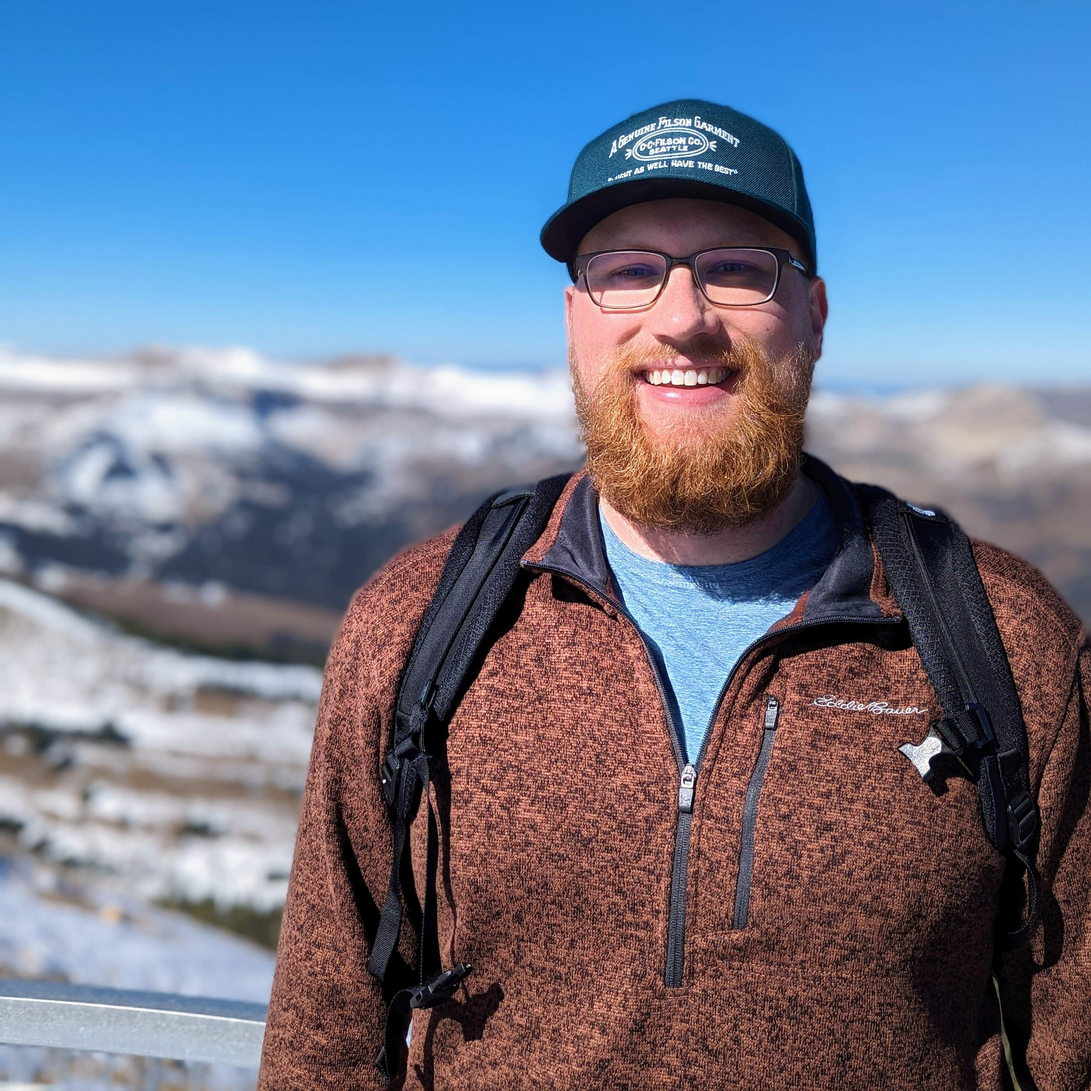
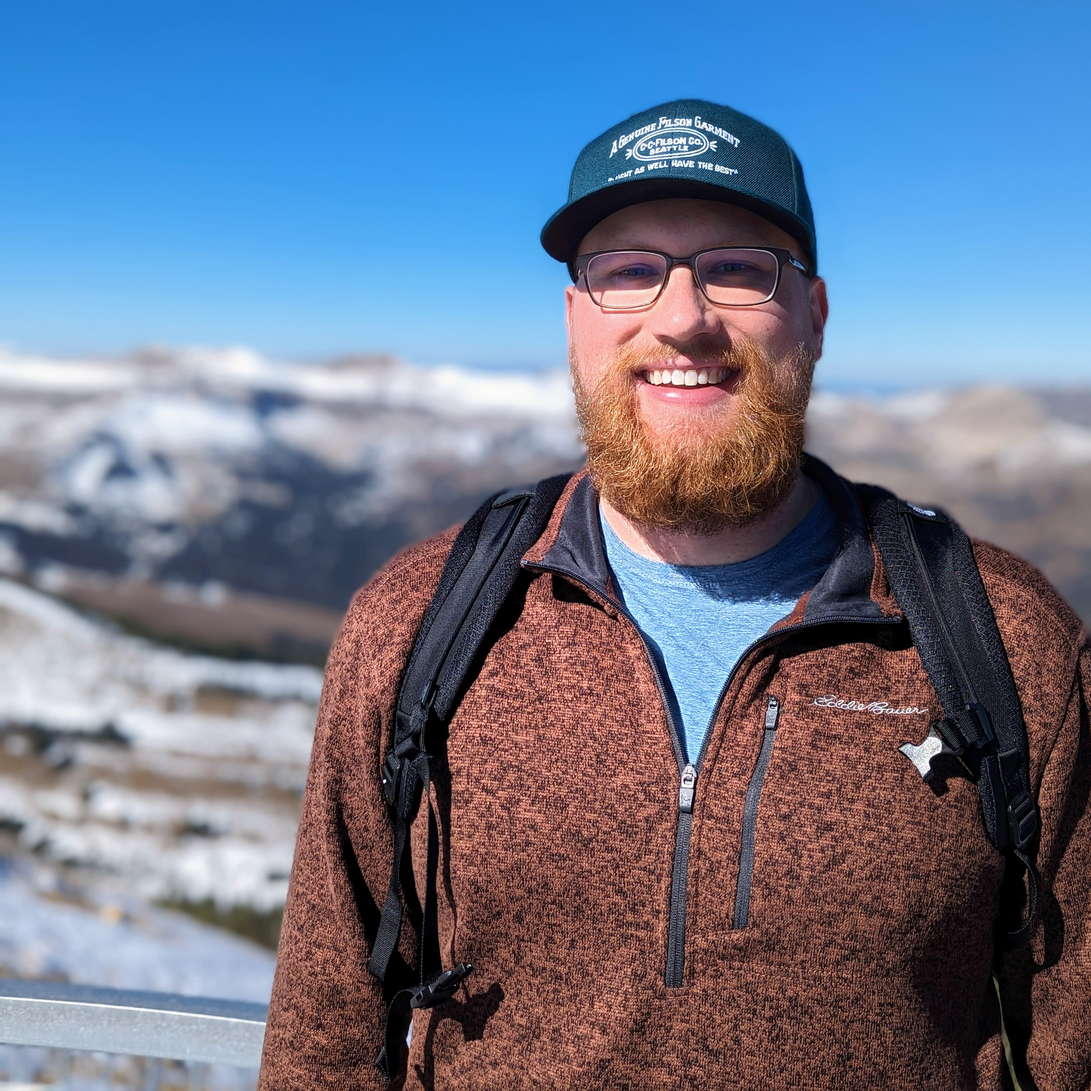
rewrites about copy and description, adds unlisted media kit, shares hero and footer partials, swaps in cleaned profile photo (#13)

diff --git a/layouts/media-kit.html b/layouts/media-kit.html
@@ -1,0 +1,105 @@
+{{ define "main" }}
+{{ $crops := slice
+  (dict "label" "4:1" "file" "4x1" "crop" (dict "ratio" 4 "left" 0.1182 "top" 0.025 "width" 0.7637) "sizes" (slice (dict "name" "Medium" "width" 1584)))
+  (dict "label" "3:1" "file" "3x1" "crop" (dict "ratio" 3 "left" 0.1182 "top" 0.017 "width" 0.7637) "sizes" (slice (dict "name" "Medium" "width" 1500)))
+  (dict "label" "Original" "file" "original") }}
+{{ $cards := slice }}
+{{ range $style := slice (dict "title" "Blurred Background" "suffix" "blur" "blurred" true) (dict "title" "Sharp Background" "suffix" "sharp" "blurred" false) }}
+  {{ $heroArgs := dict "Blurred" .blurred "Format" "png" }}
+  {{ $downloads := slice }}
+  {{ range $crops }}
+    {{ $args := $heroArgs }}
+    {{ with .crop }}{{ $args = merge $args (dict "Crop" .) }}{{ end }}
+    {{ $downloads = $downloads | append (partial "download-sizes.html" (dict
+      "Resource" (partialCached "hero.html" $args (jsonify $args))
+      "Prefix" .label
+      "Path" (printf "media-kit/background-%s-%s" .file $style.suffix)
+      "Sizes" .sizes)) }}
+  {{ end }}
+  {{ $cards = $cards | append (dict
+    "title" .title
+    "preview" (partialCached "hero.html" $heroArgs (jsonify $heroArgs) | resources.Copy (printf "media-kit/preview-%s.png" .suffix))
+    "width" 640
+    "class" "w-full rounded-xs"
+    "downloads" $downloads) }}
+{{ end }}
+{{ $me := resources.Get "images/me.jpg" }}
+{{ $cards = $cards | append (dict
+  "title" "Profile Photo"
+  "preview" ($me | resources.Copy "media-kit/preview-profile.jpg")
+  "width" 384
+  "class" "rounded-xs"
+  "downloads" (partial "download-sizes.html" (dict
+    "Resource" $me
+    "Path" "media-kit/profile"
+    "SkipFull" true
+    "Sizes" (slice (dict "name" "Small" "width" 400) (dict "name" "Medium" "width" 1024))))) }}
+{{ $headline := printf "%s | %s" site.Params.tagline (strings.TrimSuffix "." site.Params.description) }}
+{{ $rich := partial "rich-text.html" site.Home.Content }}
+{{ $plain := partial "plain-text.html" $rich }}
+{{ $formats := slice
+  (dict "name" "Plain text" "body" $plain "class" "font-sans")
+  (dict "name" "Markdown" "body" (partial "markdown.html" site.Home))
+  (dict "name" "Rich text" "body" $rich "html" true) }}
+<main class="mx-auto flex max-w-prose flex-col gap-12 px-5 py-14">
+  <h1 class="border-b-4 border-mist-700 pb-2 text-3xl font-bold tracking-wide text-mist-50 uppercase">{{ .Title }}</h1>
+
+  <section class="flex flex-col gap-4" aria-labelledby="headline">
+    <div class="flex flex-wrap items-baseline gap-x-3">
+      <h2 id="headline" class="text-xl font-semibold text-mist-50">Headline</h2>
+      <span class="text-sm text-mist-400">{{ lang.FormatNumber 0 (strings.RuneCount $headline) }} characters</span>
+    </div>
+    <p class="rounded-xs bg-mist-900 p-4 leading-7 select-all">{{ $headline }}</p>
+  </section>
+
+  <section class="flex flex-col gap-4" aria-labelledby="about-me">
+    <div class="flex flex-wrap items-baseline gap-x-3">
+      <h2 id="about-me" class="text-xl font-semibold text-mist-50">About Me</h2>
+      <span class="text-sm text-mist-400">{{ lang.FormatNumber 0 (strings.RuneCount $plain) }} characters</span>
+    </div>
+    <ul role="list" class="divide-y divide-mist-700 rounded-xs border border-mist-700">
+      {{ range $formats }}
+      <li>
+        <details class="group">
+          <summary class="flex cursor-pointer items-center justify-between gap-4 py-3 pr-5 pl-4 text-sm/6 select-none marker:hidden">
+            <span class="font-medium text-mist-50">{{ .name }}</span>
+            {{ partial "icon.html" (dict "name" "chevron-down" "class" "size-4 shrink-0 text-mist-400 transition-transform group-open:rotate-180") }}
+          </summary>
+          <div class="px-4 pb-4">
+            {{ if .html }}
+            <div class="prose rounded-xs bg-white p-4 select-all">{{ .body }}</div>
+            {{ else }}
+            <pre class="rounded-xs bg-mist-900 p-4 leading-7 whitespace-pre-wrap select-all{{ with .class }} {{ . }}{{ end }}">{{ .body }}</pre>
+            {{ end }}
+          </div>
+        </details>
+      </li>
+      {{ end }}
+    </ul>
+  </section>
+
+  {{ range $i, $card := $cards }}
+  <section class="flex flex-col gap-4" aria-labelledby="{{ urlize $card.title }}">
+    <h2 id="{{ urlize $card.title }}" class="text-xl font-semibold text-mist-50">{{ $card.title }}</h2>
+    {{ partial "img.html" (dict
+      "Resource" $card.preview
+      "Alt" $card.title
+      "Width" $card.width
+      "Eager" (eq $i 0)
+      "Class" $card.class) }}
+    <ul role="list" class="divide-y divide-mist-700 rounded-xs border border-mist-700">
+      {{ range $card.downloads }}
+      <li class="flex items-center justify-between gap-4 py-3 pr-5 pl-4 text-sm/6">
+        <div class="flex min-w-0 flex-1 flex-wrap gap-x-2">
+          <span class="font-medium text-mist-50">{{ .label }}</span>
+          <span class="text-mist-400">{{ .image.Width }}×{{ .image.Height }} · {{ upper .image.MediaType.SubType }} · {{ partial "file-size.html" (len .image.Content) }}</span>
+        </div>
+        <a href="{{ .image.RelPermalink }}" download class="link shrink-0">Download<span class="sr-only">, {{ $card.title }}, {{ .label }}</span></a>
+      </li>
+      {{ end }}
+    </ul>
+  </section>
+  {{ end }}
+</main>
+{{ partial "footer.html" . }}
+{{ end }}

diff --git a/layouts/_partials/hero.html b/layouts/_partials/hero.html
@@ -1,0 +1,20 @@
+{{ $src := resources.Get "images/header.jpg" }}
+{{ $hero := dict "width" 2560 "height" 1206 "blur" 5 }}
+{{ $blur := $hero.blur }}
+{{ $filters := slice }}
+{{ with .Crop }}
+  {{ $h := int (div (math.Round (mul $src.Width .width)) .ratio) }}
+  {{ $w := int (mul $h .ratio) }}
+  {{ $x := int (math.Round (mul $src.Width .left)) }}
+  {{ $y := int (math.Round (mul $src.Height .top)) }}
+  {{ $filters = $filters | append
+    (images.Process (printf "crop %dx%d TopLeft" (add $x $w) (add $y $h)))
+    (images.Process (printf "crop %dx%d BottomRight" $w $h)) }}
+  {{ $blur = div $blur (math.Max (div (float $hero.width) $src.Width) (div (float $hero.height) $src.Height)) }}
+{{ else }}
+  {{ $filters = $filters | append (images.Process (printf "fill %dx%d center" $hero.width $hero.height)) }}
+{{ end }}
+{{ if .Blurred }}{{ $filters = $filters | append (images.GaussianBlur $blur) }}{{ end }}
+{{ $filters = $filters | append (images.Gamma 0.72) (images.Saturation 5) (images.ColorBalance 0 0 -20) }}
+{{ with .Format }}{{ $filters = $filters | append (images.Process .) }}{{ end }}
+{{ return ($src | images.Filter $filters) }}

diff --git a/layouts/_partials/download-sizes.html b/layouts/_partials/download-sizes.html
@@ -1,0 +1,22 @@
+{{ $out := slice }}
+{{ $prefix := .Prefix | default "" }}
+{{ range .Sizes }}
+  {{ if lt .width $.Resource.Width }}
+    {{ $out = $out | append (dict
+      "label" (strings.TrimSpace (printf "%s %s" $prefix .name))
+      "image" ($.Resource.Process (printf "resize %dx jpg" .width) | resources.Copy (printf "%s-%d.jpg" $.Path .width))) }}
+  {{ end }}
+{{ end }}
+{{ range $cap := slice (dict "name" "Under 500 KB" "file" "500kb" "max" 500000) (dict "name" "Under 1 MB" "file" "1mb" "max" 1000000) }}
+  {{ with partial "under-bytes.html" (dict "Resource" $.Resource "Max" $cap.max) }}
+    {{ $out = $out | append (dict
+      "label" (strings.TrimSpace (printf "%s %s" $prefix $cap.name))
+      "image" (. | resources.Copy (printf "%s-%s.jpg" $.Path $cap.file))) }}
+  {{ end }}
+{{ end }}
+{{ if not .SkipFull }}
+  {{ $out = $out | append (dict
+    "label" (strings.TrimSpace (printf "%s Full" $prefix))
+    "image" ($.Resource.Process "jpg" | resources.Copy (printf "%s-full.jpg" $.Path))) }}
+{{ end }}
+{{ return $out }}

diff --git a/layouts/home.html b/layouts/home.html
@@ -1,10 +1,6 @@
 {{ define "main" }}
-{{ $hero := resources.Get "images/header.jpg" | images.Filter
-  (images.Process "fill 2560x1206 center")
-  (images.GaussianBlur 5)
-  (images.Gamma 0.72)
-  (images.Saturation 5)
-  (images.ColorBalance 0 0 -20) }}
+{{ $heroArgs := dict "Blurred" true }}
+{{ $hero := partialCached "hero.html" $heroArgs (jsonify $heroArgs) }}
 {{ $lqip := $hero.Resize "32x avif" }}
 <header
   class="relative isolate flex min-h-svh flex-col"
@@ -72,8 +68,6 @@
     </section>
   </main>
 
-  <footer class="px-5 py-8 text-center text-sm text-mist-400">
-    {{ site.Title }} · Powered by Hugo{{ with site.Params.commit }} · Build {{ substr . 0 7 }}{{ else }}{{ errorf "%s: missing HUGO_PARAMS_COMMIT" templates.Current.Name }}{{ end }}
-  </footer>
+  {{ partial "footer.html" . }}
 </div>
 {{ end }}

diff --git a/layouts/_partials/under-bytes.html b/layouts/_partials/under-bytes.html
@@ -1,0 +1,19 @@
+{{ $out := "" }}
+{{ if ge (len ($.Resource.Process "jpg").Content) $.Max }}
+  {{ $lo := 1 }}
+  {{ $hi := $.Resource.Width }}
+  {{ range seq 7 }}
+    {{ if gt (sub $hi $lo) 1 }}
+      {{ $mid := div (add $lo $hi) 2 }}
+      {{ $r := $.Resource.Process (printf "resize %dx jpg" $mid) }}
+      {{ if lt (len $r.Content) $.Max }}
+        {{ $lo = $mid }}
+        {{ $out = $r }}
+      {{ else }}
+        {{ $hi = $mid }}
+      {{ end }}
+    {{ end }}
+  {{ end }}
+  {{ if not $out }}{{ errorf "%s: no variant of %s under %d bytes" templates.Current.Name $.Resource.Name $.Max }}{{ end }}
+{{ end }}
+{{ return $out }}

diff --git a/layouts/baseof.html b/layouts/baseof.html
@@ -6,6 +6,9 @@
     <meta name="viewport" content="width=device-width, initial-scale=1">
     <title>{{ $title }}</title>
     <meta name="description" content="{{ site.Params.description }}">
+    {{- with .Params.robots }}
+    <meta name="robots" content="{{ . }}">
+    {{- end }}
     <meta name="theme-color" content="{{ site.Params.themeColor }}">
     <link rel="canonical" href="{{ .Permalink }}">
     <meta property="og:type" content="website">

diff --git a/assets/css/main.css b/assets/css/main.css
@@ -29,7 +29,11 @@
   --tw-prose-invert-counters: var(--color-mist-400);
   --tw-prose-invert-bullets: var(--color-mist-400);
 
-  @apply prose-a:font-bold prose-a:hover:bg-amber-200 prose-a:hover:text-mist-800;
+  @apply prose-a:link;
+}
+
+@utility link {
+  @apply font-bold text-amber-200 underline hover:bg-amber-200 hover:text-mist-800;
 }
 
 @font-face {

diff --git a/layouts/_partials/footer.html b/layouts/_partials/footer.html
@@ -1,0 +1,3 @@
+<footer class="px-5 py-8 text-center text-sm text-mist-400">
+  {{ site.Title }} · Powered by Hugo{{ with site.Params.commit }} · Build {{ substr . 0 7 }}{{ else }}{{ errorf "%s: missing HUGO_PARAMS_COMMIT" templates.Current.Name }}{{ end }}
+</footer>

diff --git a/layouts/_partials/plain-text.html b/layouts/_partials/plain-text.html
@@ -1,0 +1,1 @@
+{{ return (. | replaceRE `<li>` "• " | replaceRE `</(p|h\d|ul)>` "\n" | replaceRE `<[^>]+>` "" | replaceRE `&[lr]squo;` "'" | replaceRE `&[lr]dquo;` `"` | htmlUnescape | replaceRE `\n{3,}` "\n\n" | strings.TrimSpace) }}

diff --git a/layouts/_partials/file-size.html b/layouts/_partials/file-size.html
@@ -1,0 +1,1 @@
+{{ return (cond (ge . 1000000) (printf "%.1f MB" (div (float .) 1000000)) (printf "%.0f KB" (div (float .) 1000))) }}

diff --git a/layouts/_partials/markdown.html b/layouts/_partials/markdown.html
@@ -1,0 +1,1 @@
+{{ return (.RenderShortcodes | replaceRE `(?m)^(#+ .*?) \{[^}]*\}$` "$1" | strings.TrimSpace) }}

diff --git a/layouts/_partials/rich-text.html b/layouts/_partials/rich-text.html
@@ -1,0 +1,1 @@
+{{ return (. | replaceRE ` ?<svg[\s\S]*?</svg>` "" | safeHTML) }}
